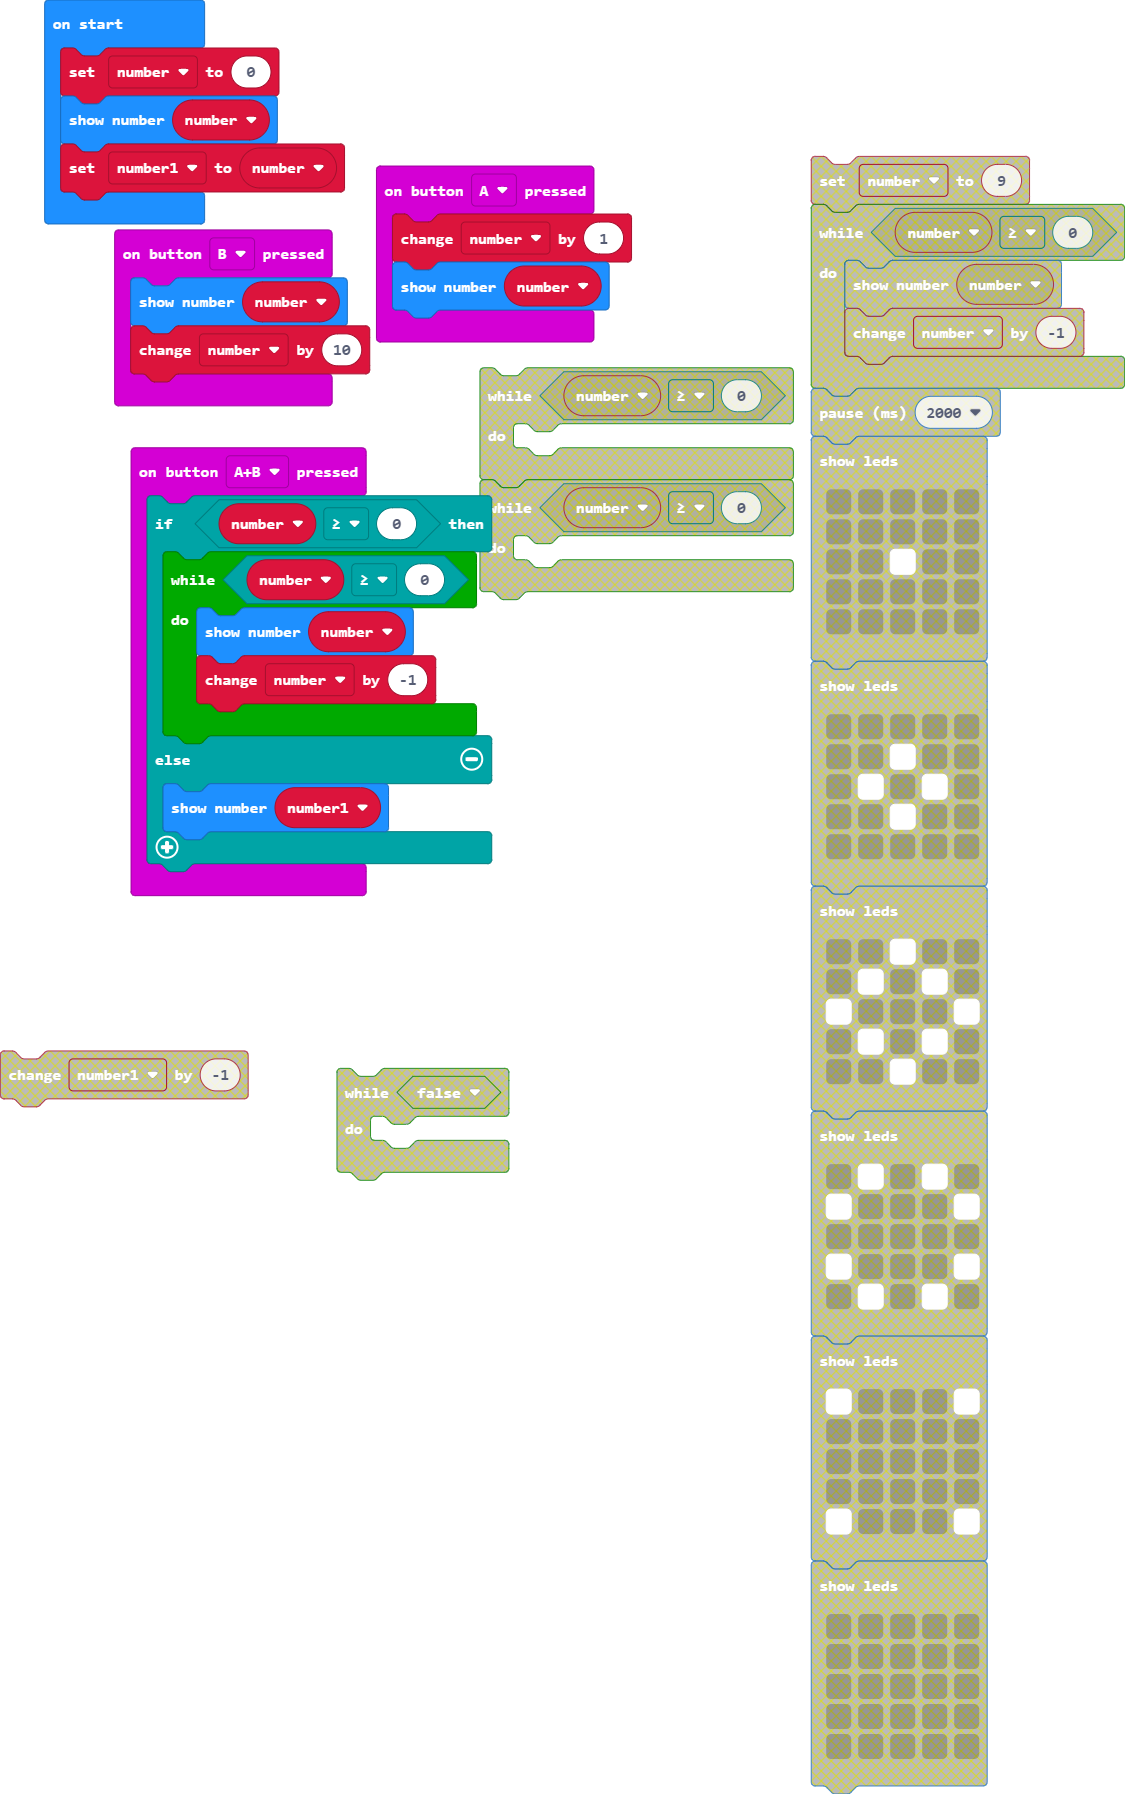
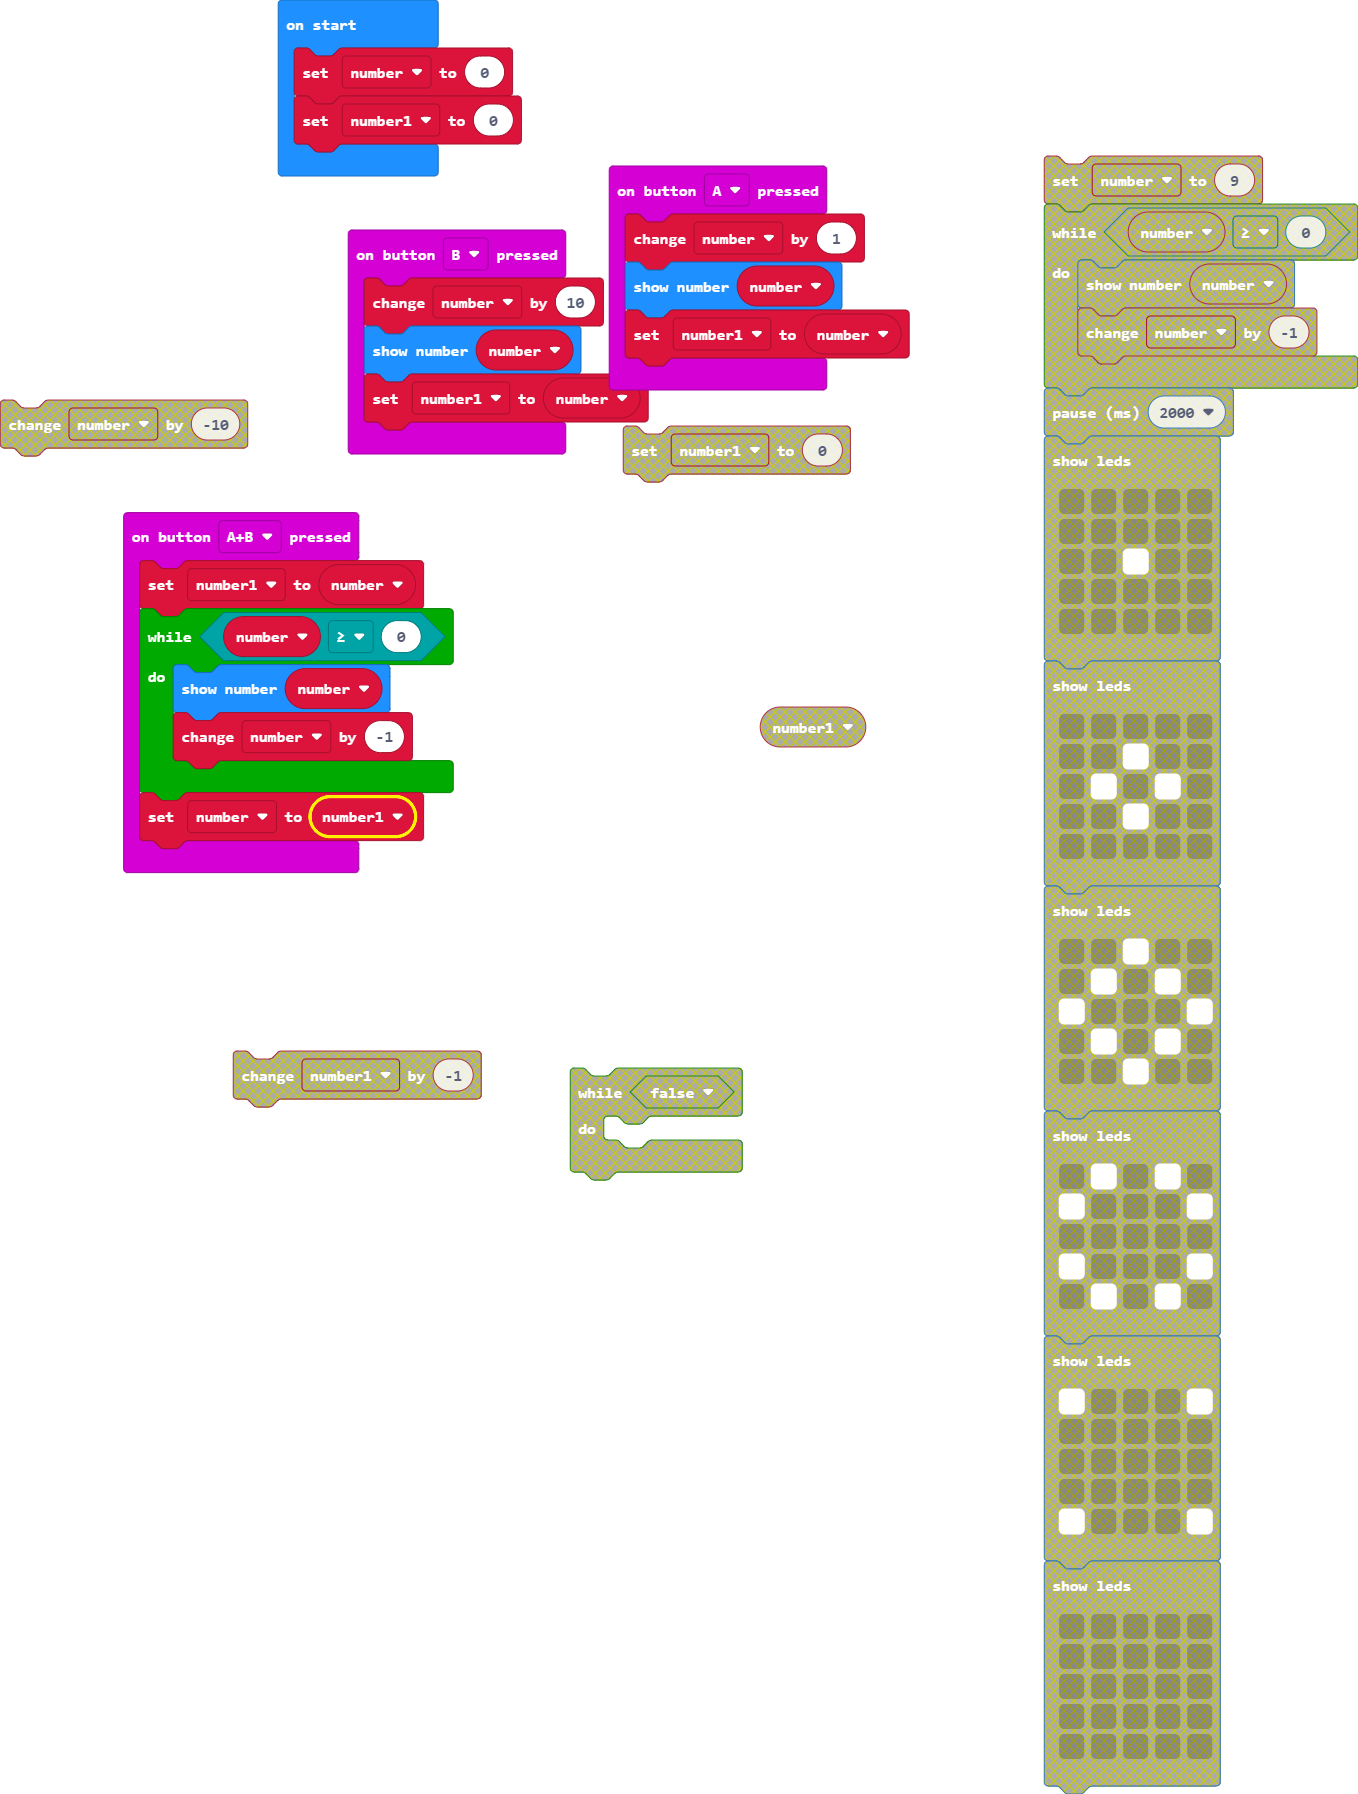
Update main.blocks, main.ts

diff --git a/main.ts b/main.ts
@@ -1,23 +1,22 @@
 input.onButtonPressed(Button.A, function () {
     number += 1
     basic.showNumber(number)
+    number1 = number
 })
 input.onButtonPressed(Button.AB, function () {
-    if (number >= 0) {
-        while (number >= 0) {
-            basic.showNumber(number)
-            number += -1
-        }
-    } else {
-        basic.showNumber(number1)
+    number1 = number
+    while (number >= 0) {
+        basic.showNumber(number)
+        number += -1
     }
+    number = number1
 })
 input.onButtonPressed(Button.B, function () {
-    basic.showNumber(number)
     number += 10
+    basic.showNumber(number)
+    number1 = number
 })
 let number1 = 0
 let number = 0
 number = 0
-basic.showNumber(number)
-number1 = number
+number1 = 0
